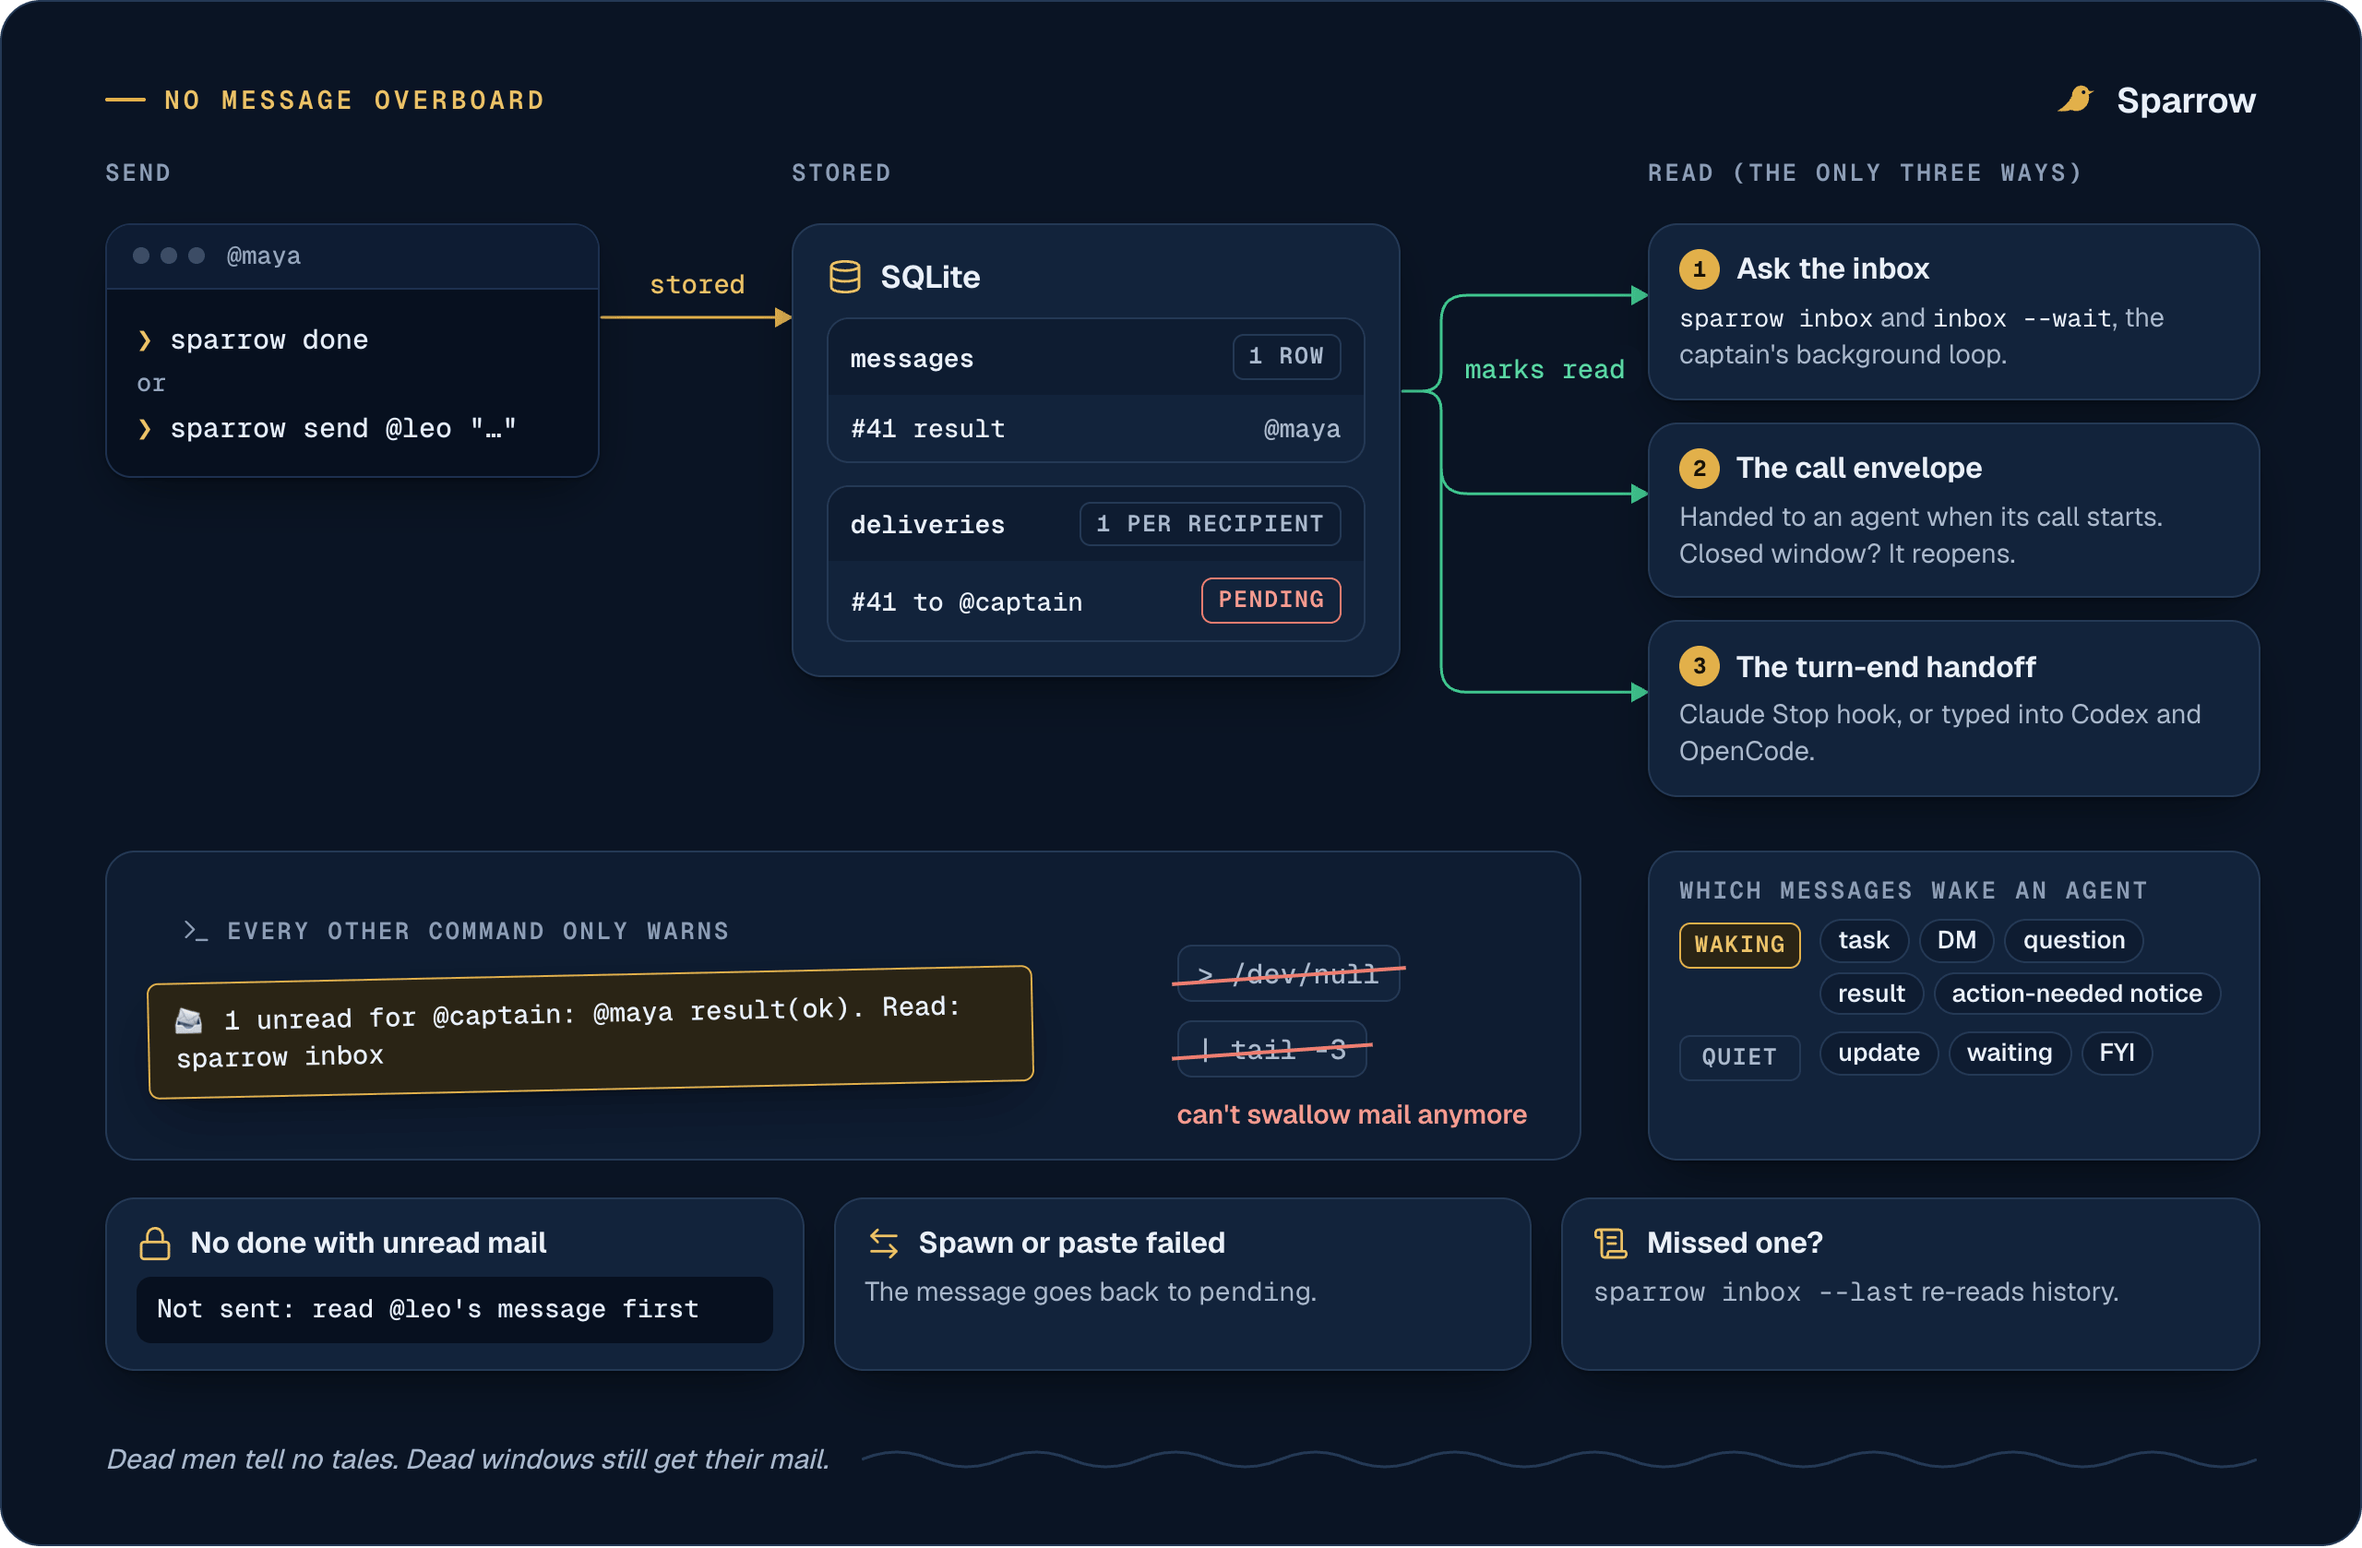
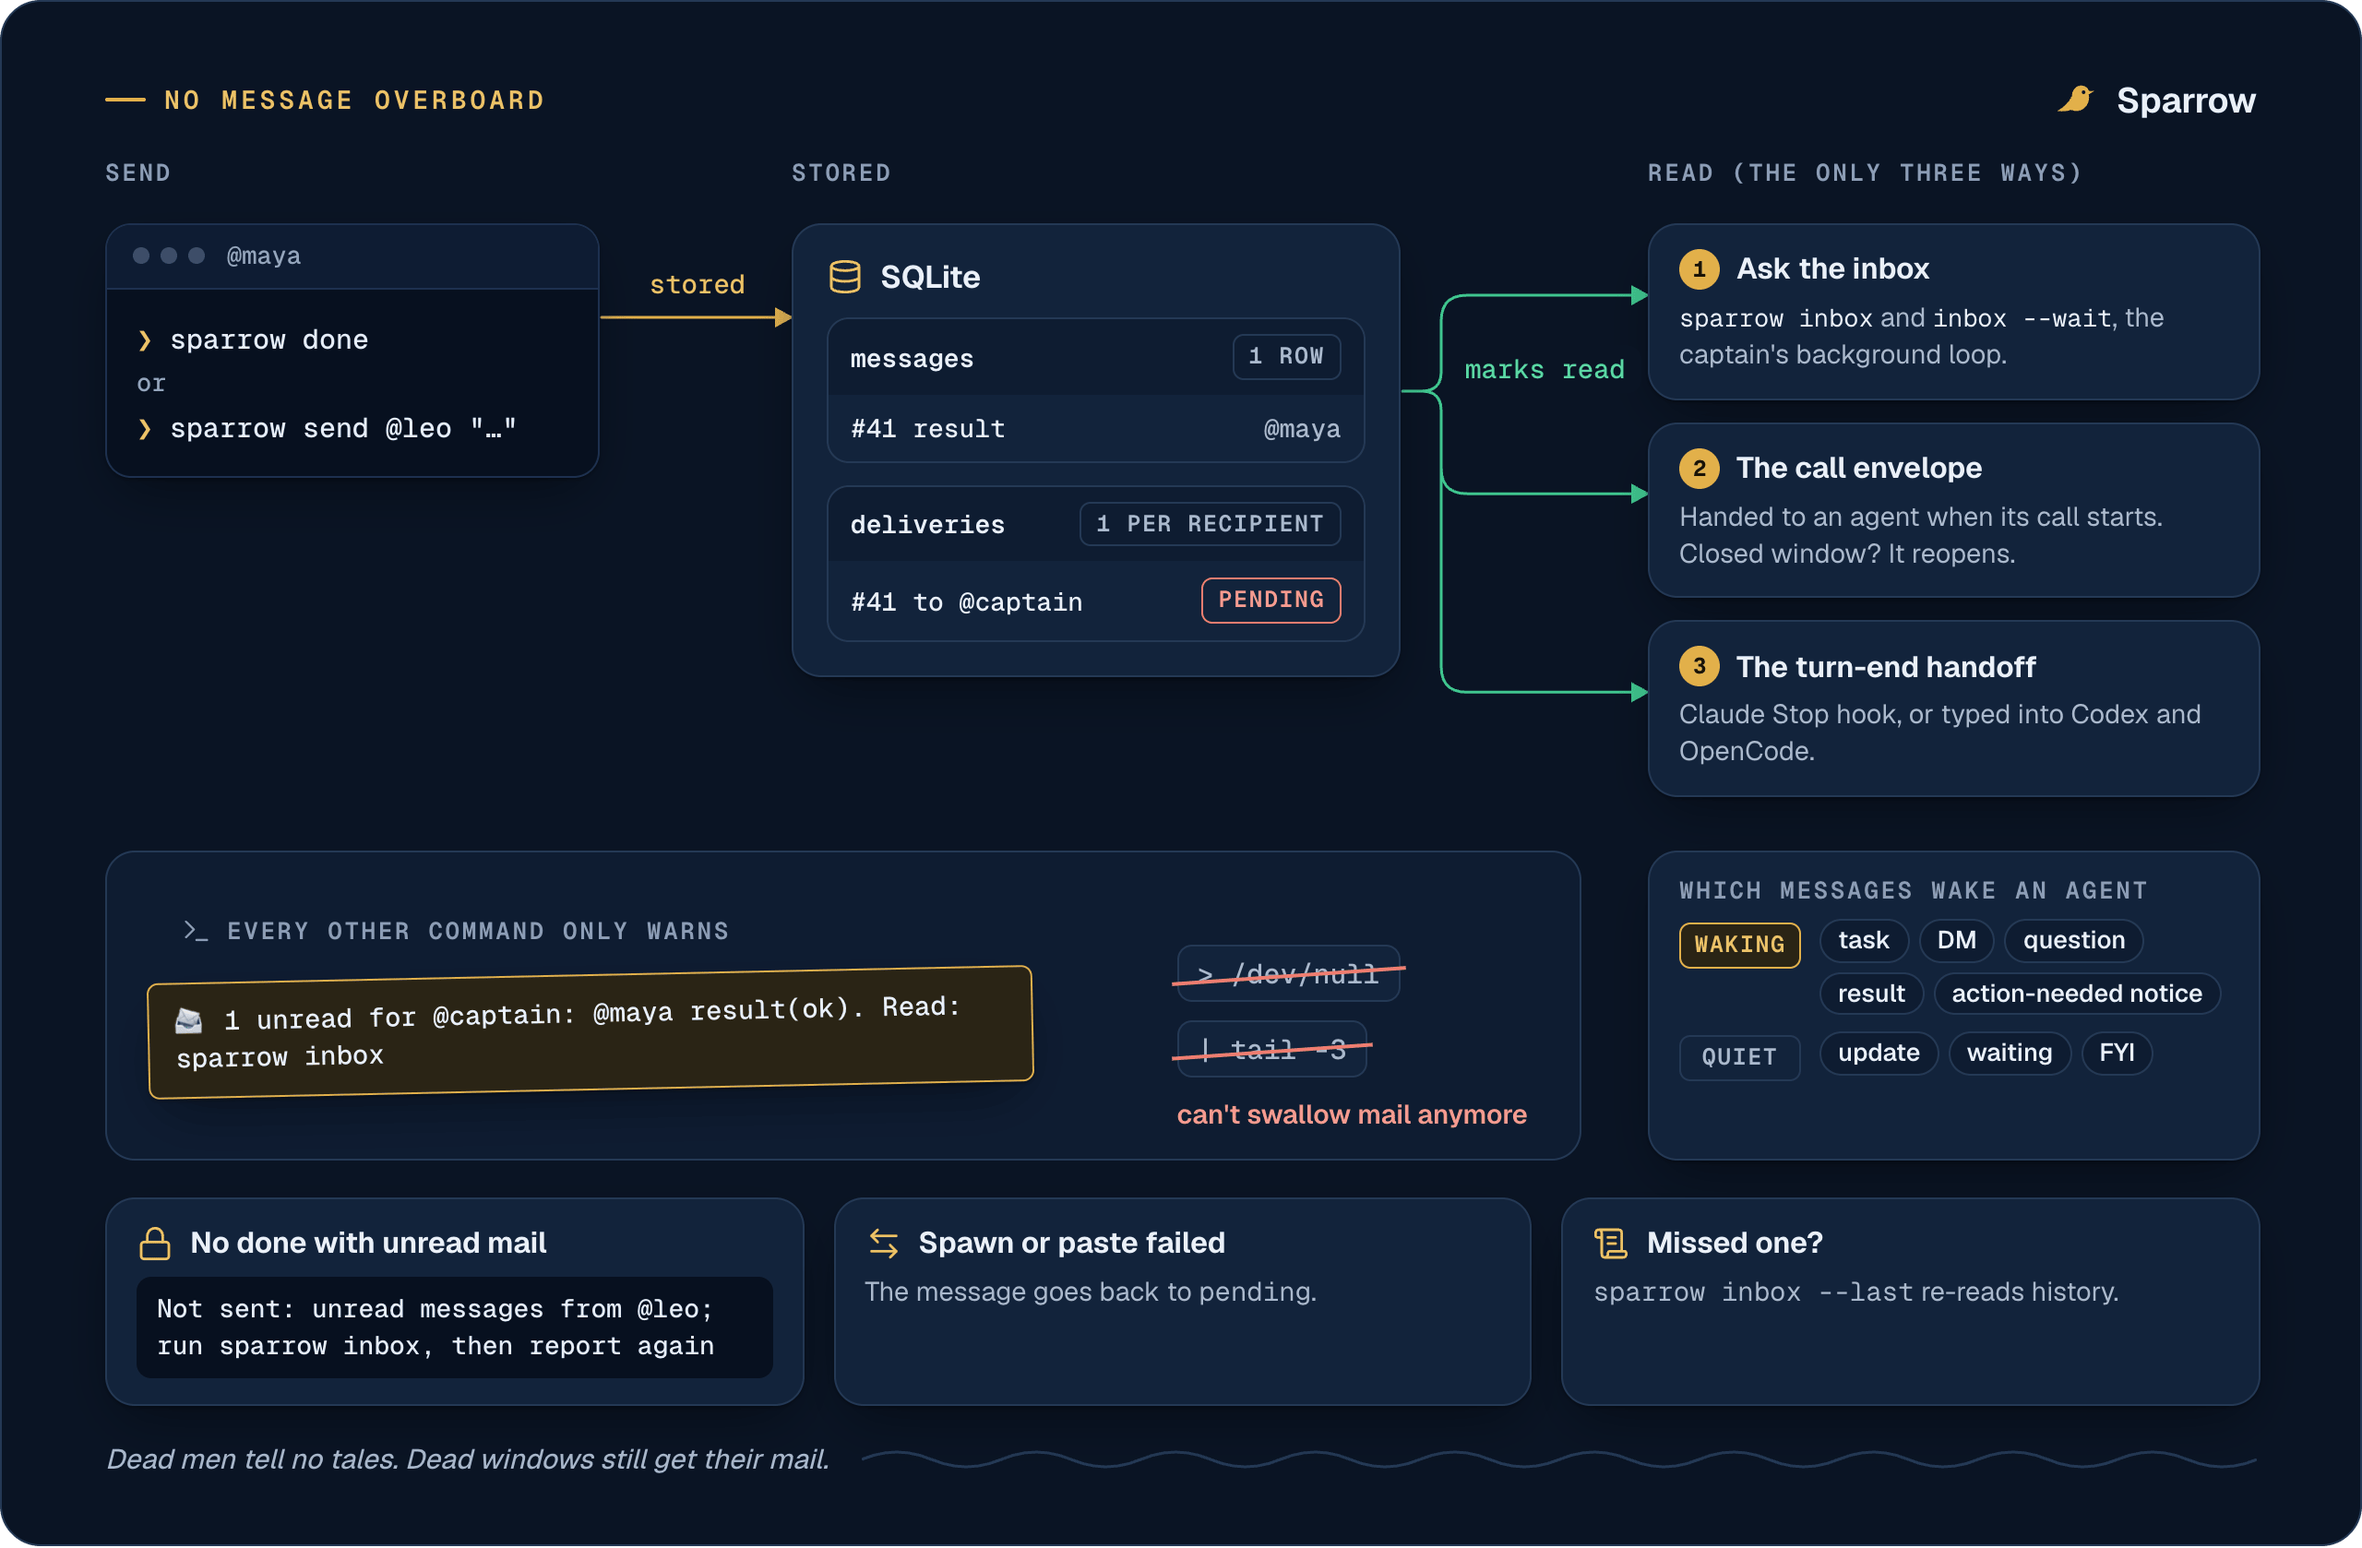
docs(diagrams): protocol shows the real refusal text

Changed region(s): [[0.0312, 0.8367, 0.9688, 0.9297]]

diff --git a/docs/diagrams/src/protocol.html b/docs/diagrams/src/protocol.html
@@ -71,7 +71,7 @@
     </div>
 
     <div class="guards abs">
-      <div class="card"><h3><i class="ic" data-i="lock"></i>No done with unread mail</h3><div class="mini">Not sent: read @leo's message first</div></div>
+      <div class="card"><h3><i class="ic" data-i="lock"></i>No done with unread mail</h3><div class="mini">Not sent: unread messages from @leo; run sparrow inbox, then report again</div></div>
       <div class="card"><h3><i class="ic" data-i="arrow-left-right"></i>Spawn or paste failed</h3><p>The message goes back to <span class="mono">pending</span>.</p></div>
       <div class="card"><h3><i class="ic" data-i="scroll-text"></i>Missed one?</h3><p><span class="mono">sparrow inbox --last</span> re-reads history.</p></div>
     </div>
